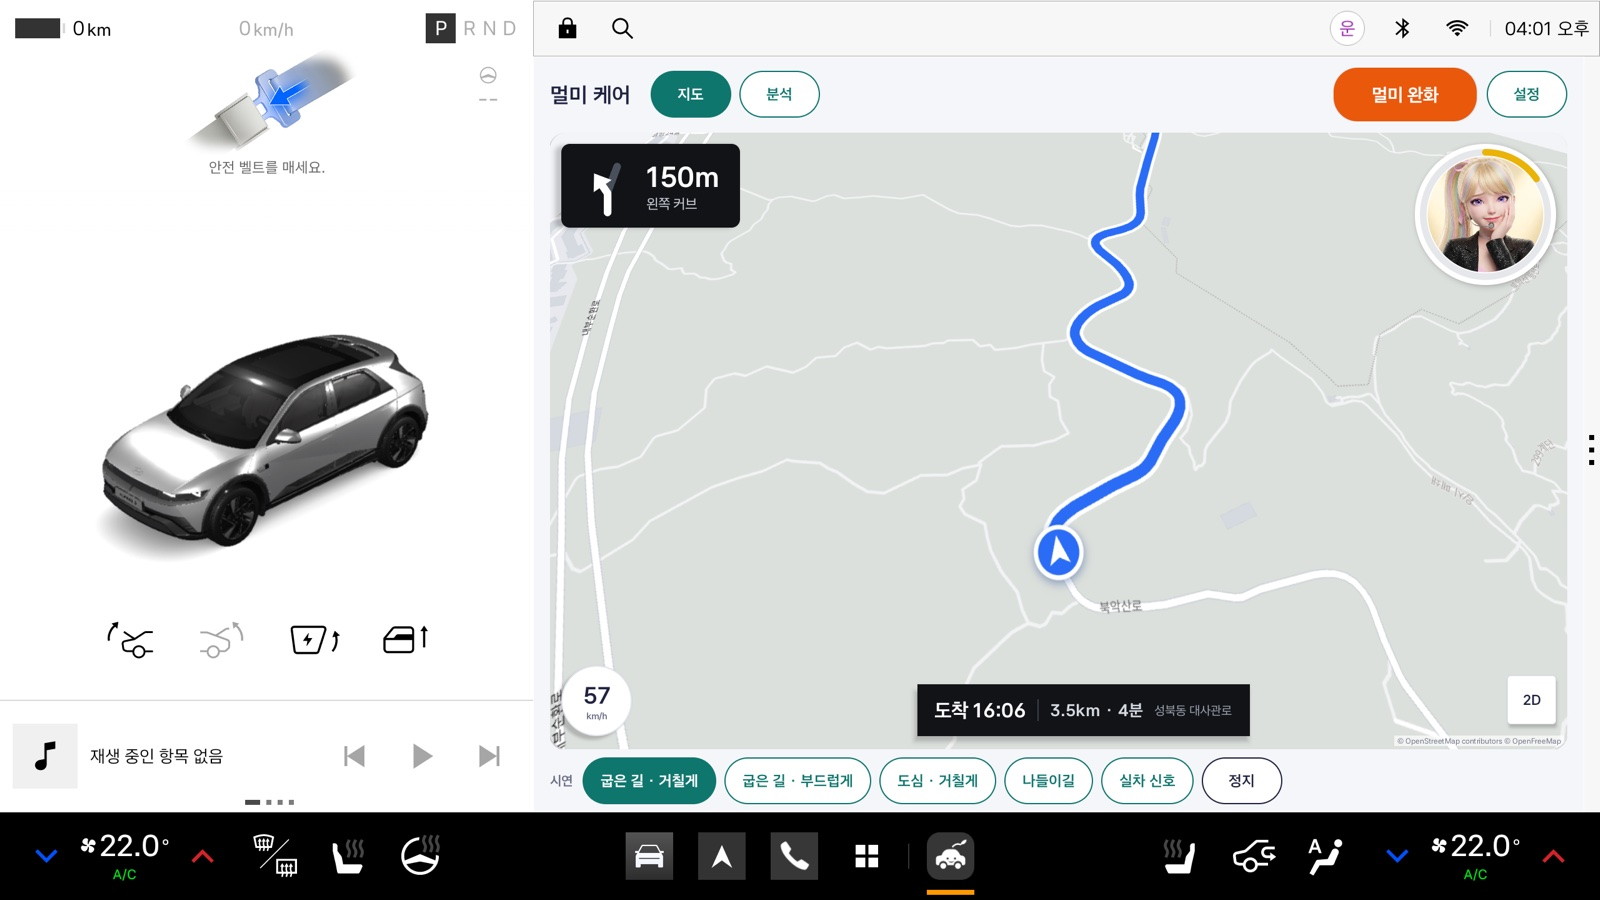
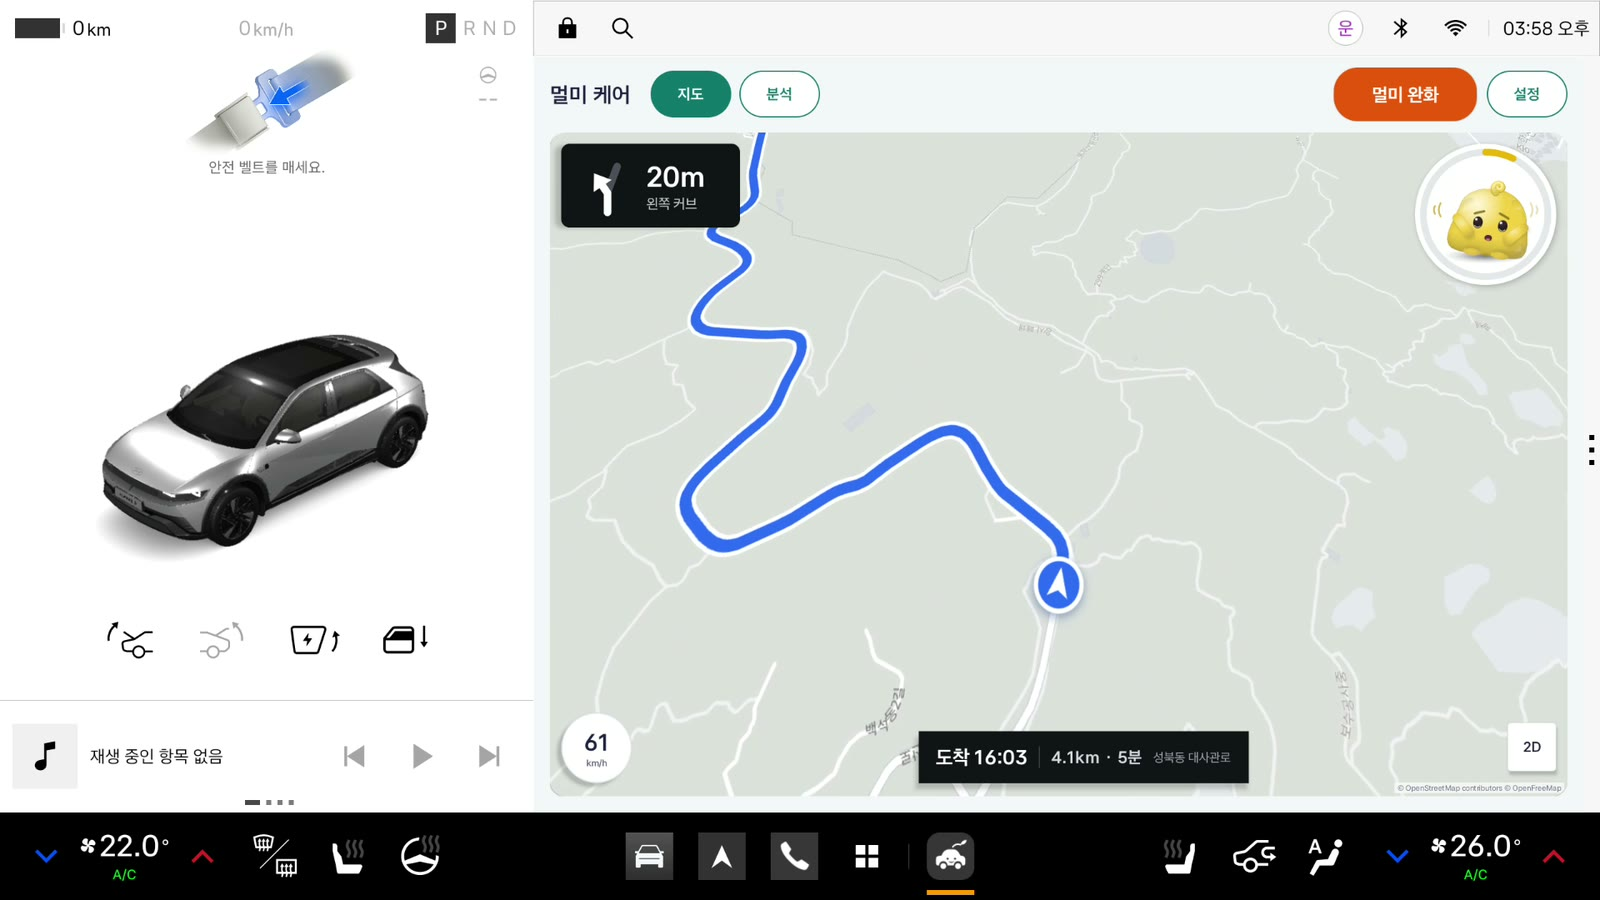
README 앱 캡처를 말랑 3D 친구(몽글이)로 교체
- demo.webp(2배속, 노랑 → 빨강 → 멀미 완화), gif_compact.webp, ui_r6_map.jpg, ui_r6_relief.jpg를 몽글이 테마 녹화로 다시 만듦
- 캡션: 3배속 → 2배속, 시연 줄 문구 삭제 (새 녹화엔 시연 줄 없음)

diff --git a/README.md b/README.md
@@ -10,9 +10,9 @@
 
 <img src="docs/img/at_a_glance.svg" width="100%" alt="켜 두면 차가 알아서, 힘들면 버튼 하나 · 뒷좌석 아이(4–13세)를 태운 가족 차. 가운데 멀미 케어 앱 아이콘. 왼쪽 ① 차가 알아서(켜 두기만 하면): 아이 멀미 위험 오름(흔들림·더위로 멀미 지수 계산) → 화면·소리로 알림 → 더 오르면 바깥 공기(외기 순환)·온도 낮춤 + 운전자에게 &quot;브레이크 부드럽게&quot; → 실내가 나아지면 다시 계산. 오른쪽 ② 버튼 하나(아이가 힘들어하면): 멀미 완화 버튼 → 차가 바로 창문·바람·음성 → 누른 순간 기록 → 우리 아이에 맞춘 멀미 가능성 → 다음 주행엔 더 일찍 알림">
 
-<img src="docs/img/demo.webp" width="100%" alt="북악스카이웨이 실제 도로 경로를 시뮬레이션으로 재생 (Pleos 에뮬레이터, 3배속): 캐릭터 둘레가 멀미 가능성 색으로 바뀜, 멀미 완화 버튼 → 창문 열고 바람 넣었어요">
+<img src="docs/img/demo.webp" width="100%" alt="북악스카이웨이 실제 도로 경로를 시뮬레이션으로 재생 (Pleos 에뮬레이터, 2배속, 말랑 3D 친구 몽글이): 캐릭터 표정과 둘레 링이 노랑 → 빨강, 멀미 완화 버튼 → 창문 열고 바람 넣었어요">
 
-**실제 도로 경로 재생 · 3배속** · 캐릭터 둘레 색 = 아이의 멀미 가능성 · 맨 아래 줄은 시연용 주행 선택 · Pleos 에뮬레이터
+**실제 도로 경로 재생 · 2배속** · 캐릭터 둘레 링 = 아이의 멀미 가능성 · Pleos 에뮬레이터
 
 <a href="docs/demo-script.md"><img src="docs/img/link_video.svg" height="40" alt="시연 콘티 · 영상은 촬영 예정"></a> <a href="https://github.com/toowani/motion-care/releases"><img src="docs/img/link_apk.svg" height="40" alt="APK 받기 · Releases · 이메일 첨부"></a> <a href="#8-부록-한계--실행-방법--문서"><img src="docs/img/link_repo.svg" height="40" alt="실행 방법 · 에뮬레이터 4단계"></a>
 
@@ -97,13 +97,13 @@ DOI와 한계: [research/literature.md](research/literature.md)
 
 ### ② 지도 탭 (기본 화면)
 
-<img src="docs/img/ui_r6_map.jpg" width="100%" alt="지도 탭: 회전 안내 카드, 앞으로 갈 파란 경로, 오른쪽 위 멀미 가능성 링을 두른 캐릭터, 위쪽 주황 멀미 완화 버튼">
+<img src="docs/img/ui_r6_map.jpg" width="100%" alt="지도 탭: 회전 안내 카드, 앞으로 갈 파란 경로, 오른쪽 위 멀미 가능성 링을 두른 캐릭터(몽글이, 노랑), 위쪽 주황 멀미 완화 버튼">
 
 <img src="docs/img/map_elements.svg" width="100%" alt="지도 탭 요소: 진행 방향 위 지도, 앞으로 갈 길만 그리는 파란 경로, 회전 안내 카드·도착 바, 캐릭터 둘레 링(멀미 가능성, 12시부터 시계 방향, 25%·50% 경계)">
 
 ### ③ 멀미 완화 버튼: 한 번 누르면 바로
 
-<img src="docs/img/ui_r6_relief.jpg" width="100%" alt="멀미 완화 버튼을 누른 뒤: 지도 위 '창문 열고 바람 넣었어요', 캐릭터 링은 빨강">
+<img src="docs/img/ui_r6_relief.jpg" width="100%" alt="멀미 완화 버튼을 누른 뒤: 지도 위 '창문 열고 바람 넣었어요', 몽글이 표정과 링은 빨강">
 
 <img src="docs/img/relief_sequence.svg" width="100%" alt="멀미 완화 버튼(지도·분석·한 화면 모드 어디서나): 1 뒷창문 20%(Vehicle Window) 2 바깥 공기+22°C(Vehicle HVAC) 3 '창문 열고 바람 넣을게요. 먼 곳을 보세요.'(TextToSpeech) 4 누른 순간 D → 내 기준선 τ · 안 될 때: 창문 불가 → 화면+음성 안내, 공조 꺼짐 → 그대로, 20초 안 다시 누름 → '바람 넣는 중이에요'만">
 
